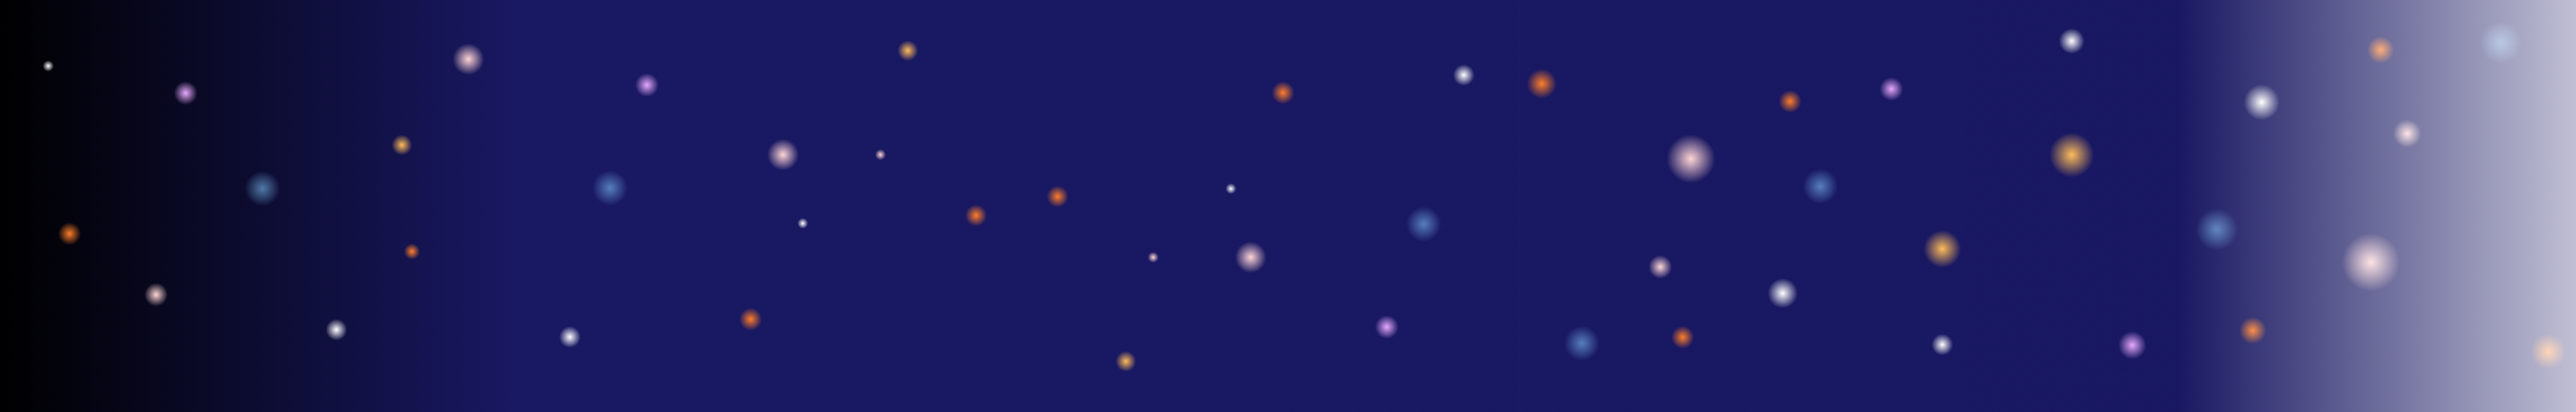
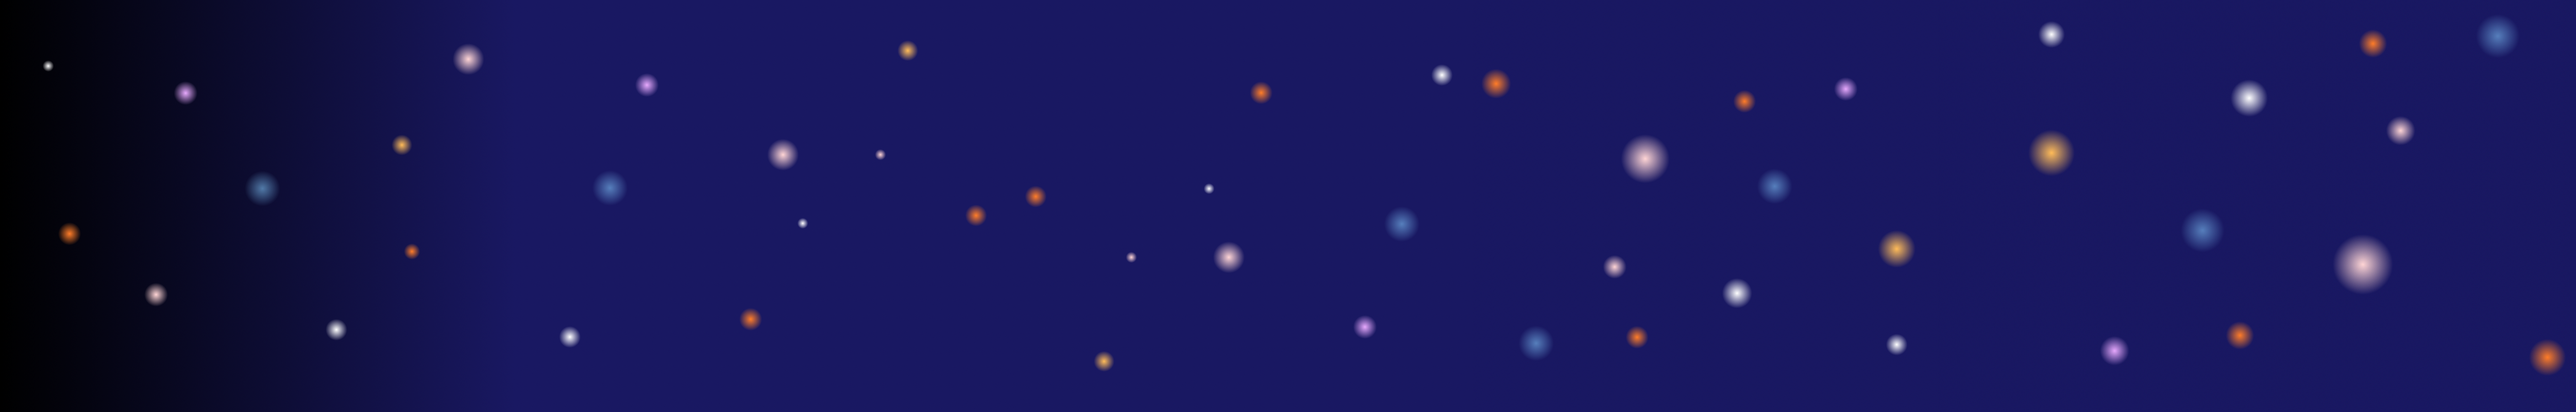
modificato lo sfondo e le immagini

diff --git a/Workspace/SpaceShip/src/it/edu/iisgubbio/partiGioco/SpostamentoSfondo.java b/Workspace/SpaceShip/src/it/edu/iisgubbio/partiGioco/SpostamentoSfondo.java
@@ -19,11 +19,16 @@ public class SpostamentoSfondo extends Application{
 	//SFONDO
 	final int WIDTH_SFONDO = 5000;
 	final int HEIGTH_SFONDO = 800;
+	int posizioneFinaleSfondo;
 	Image immagineSfondo = new Image(getClass().getResourceAsStream("Sfondo.png"));
 	ImageView sfondo = new ImageView(immagineSfondo);
+	final int WIDTH_SFOCATURA=2000;
+	final int HEIGTH_SFOCATURA = 1600;
+	Image immagineSfocatura = new Image(getClass().getResourceAsStream("Sfocatura.png"));
+	ImageView sfocatura = new ImageView(immagineSfocatura);
 	
 	//spostamento sfondo
-	double tempoDiSpostamentoTOT=25; //se si vuole scegliere la durata del gioco standard 25s
+	double tempoDiSpostamentoTOT=10; //se si vuole scegliere la durata del gioco standard 25s
 	double posizioneSfondoX=0;
 	double valoreSpostamentoSfondo=WIDTH_SFONDO*25/(tempoDiSpostamentoTOT*1000);
 	Timeline muoviSfondo= new Timeline(new KeyFrame(
@@ -36,10 +41,16 @@ public class SpostamentoSfondo extends Application{
 		sfondo.setFitWidth(WIDTH_SFONDO);
 		sfondo.setFitHeight(HEIGTH_SFONDO);
 		sfondo.setLayoutX(0);
-		sfondo.setLayoutY(0);
+		sfondo.setLayoutY((HEIGTH_SCHERMO-HEIGTH_SFONDO)/2);
 		muoviSfondo.setCycleCount(Animation.INDEFINITE);
 		muoviSfondo.play();
 		interfaccia.getChildren().add(sfondo);
+
+		sfocatura.setFitWidth(WIDTH_SFOCATURA);
+		sfocatura.setFitHeight(HEIGTH_SFOCATURA);
+		sfocatura.setLayoutX(0);
+		sfocatura.setLayoutY((HEIGTH_SCHERMO-HEIGTH_SFOCATURA)/2);
+		interfaccia.getChildren().add(sfocatura);
 		
 		Scene scena=new Scene(interfaccia, WIDTH_SCHERMO, HEIGTH_SCHERMO);
 		finestra.setTitle("Spaceship");
@@ -49,6 +60,11 @@ public class SpostamentoSfondo extends Application{
 	public void aggiornaPosizioneSfondo() {
 		posizioneSfondoX-=valoreSpostamentoSfondo;
 		sfondo.setLayoutX(posizioneSfondoX);
+		double posizioneFinaleSfondo=posizioneSfondoX+WIDTH_SFONDO;
+		sfocatura.setLayoutX(posizioneFinaleSfondo-WIDTH_SFOCATURA/2);
+		if(posizioneFinaleSfondo>WIDTH_SCHERMO && posizioneFinaleSfondo<WIDTH_SCHERMO+20) {
+			muoviSfondo.stop();
+		}
 	}
 	public static void main(String[] args){
 		launch(args);

diff --git a/Workspace/SpaceShip/src/it/edu/iisgubbio/giocoFinale/Spaceship.java b/Workspace/SpaceShip/src/it/edu/iisgubbio/giocoFinale/Spaceship.java
@@ -22,6 +22,10 @@ public class Spaceship extends Application{
 	final int HEIGTH_SFONDO = 800;
 	Image immagineSfondo = new Image(getClass().getResourceAsStream("Sfondo.png"));
 	ImageView sfondo = new ImageView(immagineSfondo);
+	final int WIDTH_SFOCATURA=2000;
+	final int HEIGTH_SFOCATURA = 1600;
+	Image immagineSfocatura = new Image(getClass().getResourceAsStream("Sfocatura.png"));
+	ImageView sfocatura = new ImageView(immagineSfocatura);
 	//spostamento sfondo
 	double tempoDiSpostamentoTOT=25; //se si vuole scegliere la durata del gioco standard 25s
 	double posizioneSfondoX=0;
@@ -72,11 +76,15 @@ public class Spaceship extends Application{
 		sfondo.setFitWidth(WIDTH_SFONDO);
 		sfondo.setFitHeight(HEIGTH_SFONDO);
 		sfondo.setLayoutX(0);
-		sfondo.setLayoutY(0);
+		sfondo.setLayoutY((HEIGTH_SCHERMO-HEIGTH_SFONDO)/2);
 		muoviSfondo.setCycleCount(Animation.INDEFINITE);
 		muoviSfondo.play();
 		interfaccia.getChildren().add(sfondo);
-
+		sfocatura.setFitWidth(WIDTH_SFOCATURA);
+		sfocatura.setFitHeight(HEIGTH_SFOCATURA);
+		sfocatura.setLayoutX(0);
+		sfocatura.setLayoutY((HEIGTH_SCHERMO-HEIGTH_SFOCATURA)/2);
+		
 		//settaggi oggetti
 		int immagine, posizioneY, rotazione;
 		for(int n=0; n<nOggetti; n++) {
@@ -106,6 +114,7 @@ public class Spaceship extends Application{
 		muoviNavicella.setCycleCount(Animation.INDEFINITE);
 		muoviNavicella.play();
 
+		interfaccia.getChildren().add(sfocatura);
 		Scene scena=new Scene(interfaccia, WIDTH_SCHERMO, HEIGTH_SCHERMO);
 
 		scena.setOnKeyPressed(e -> pigiato(e));
@@ -120,6 +129,11 @@ public class Spaceship extends Application{
 	public void aggiornaPosizioneSfondo() {
 		posizioneSfondoX-=valoreSpostamentoSfondo;
 		sfondo.setLayoutX(posizioneSfondoX);
+		double posizioneFinaleSfondo=posizioneSfondoX+WIDTH_SFONDO;
+		sfocatura.setLayoutX(posizioneFinaleSfondo-WIDTH_SFOCATURA/2);
+		if(posizioneFinaleSfondo>WIDTH_SCHERMO && posizioneFinaleSfondo<WIDTH_SCHERMO+20) {
+			muoviSfondo.stop();
+		}
 	}
 
 	public void spostaOggetti() {
